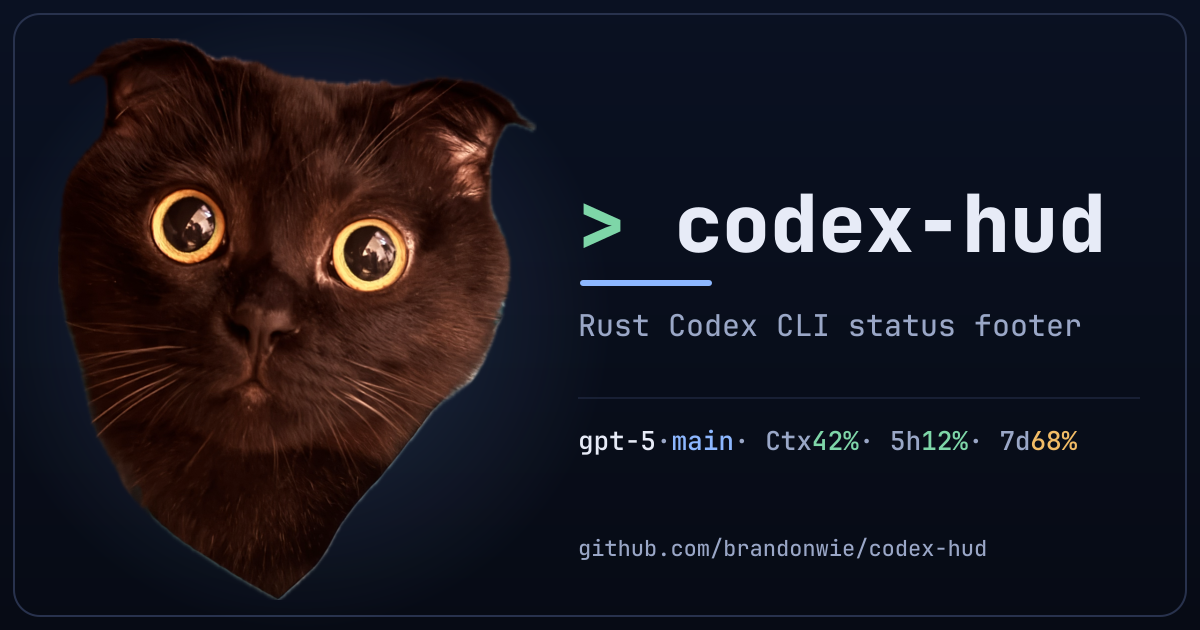
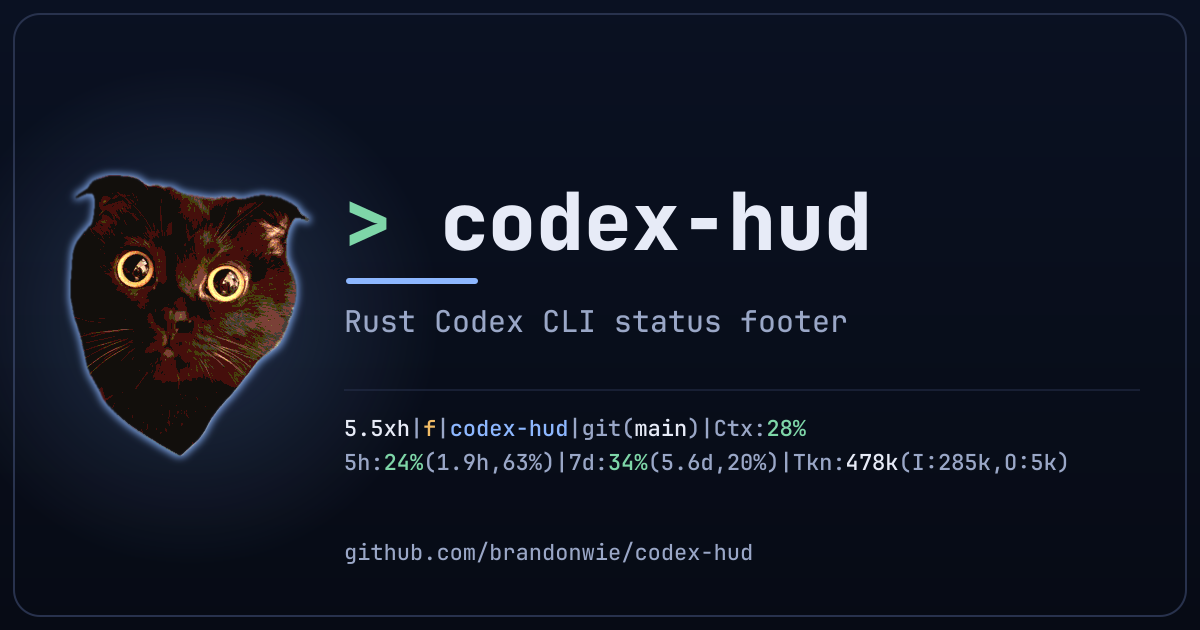
fix(site): real HUD sample + half-size stylized card cat
The OG and GitHub social cards baked an oversized raw-photo mascot
(~89% card height) and a stale sample footer (gpt-5 · main · Ctx 42%)
that no longer matches the real pipe/Tkn HUD output.

- generate-images.mjs: halve and vertically center the card cat, and
  add a shared SVG filter (desaturate + posterize + warm tint + accent
  rim-glow) so it reads as an illustrated asset, not a photo. Replace
  the footer with the real two-line format (no emoji — librsvg color
  emoji is unreliable). App icons and favicon are untouched.
- check-site.js: require the two card PNGs, assert their 1200x630 /
  1280x640 dimensions, and fail if the generator regresses to the
  stale sample.

Cards only; site playground and app icons unchanged.

Changed region(s): [[0.0308, 0.0603, 0.925, 0.9651], [0.4933, 0.6032, 0.9558, 0.6333]]

diff --git a/scripts/check-site.js b/scripts/check-site.js
@@ -20,6 +20,8 @@ const requiredFiles = [
   "site/favicon.svg",
   "assets/codex-hud-screenshot.png",
   "site/assets/codex-hud-screenshot.png",
+  "site/assets/og-image.png",
+  "assets/github-social-preview.png",
   ".github/workflows/pages.yml",
 ];
 
@@ -29,6 +31,36 @@ const fail = [];
 
 for (const file of requiredFiles) {
   if (!exists(file)) fail.push(`missing ${file}`);
+}
+
+// Generated social cards (scripts/generate-images.mjs) must keep their target
+// dimensions and carry the real, non-stale HUD sample. PNG IHDR width/height are
+// big-endian uint32 at byte offsets 16 and 20 — no decoder/rsvg needed.
+const pngSize = (relativePath) => {
+  const buf = fs.readFileSync(path.join(root, relativePath));
+  return { width: buf.readUInt32BE(16), height: buf.readUInt32BE(20) };
+};
+const cardAssets = [
+  { file: "site/assets/og-image.png", width: 1200, height: 630 },
+  { file: "assets/github-social-preview.png", width: 1280, height: 640 },
+];
+for (const { file, width, height } of cardAssets) {
+  if (!exists(file)) continue; // already reported by the requiredFiles loop
+  const dim = pngSize(file);
+  if (dim.width !== width || dim.height !== height) {
+    fail.push(`${file} must be ${width}x${height}, found ${dim.width}x${dim.height}`);
+  }
+}
+const imageGen = exists("scripts/generate-images.mjs") ? read("scripts/generate-images.mjs") : "";
+if (!imageGen) {
+  fail.push("missing scripts/generate-images.mjs (source of the social cards)");
+} else {
+  if (/gpt-5\b/.test(imageGen) || imageGen.includes(" · Ctx ")) {
+    fail.push("social-card generator still bakes the stale sample footer (gpt-5 · Ctx …); update the HUD sample");
+  }
+  if (!imageGen.includes("Tkn:") || !imageGen.includes("codex-hud")) {
+    fail.push("social-card generator must bake the real HUD sample (pipe segments incl. Tkn:)");
+  }
 }
 
 const html = exists("site/index.html") ? read("site/index.html") : "";